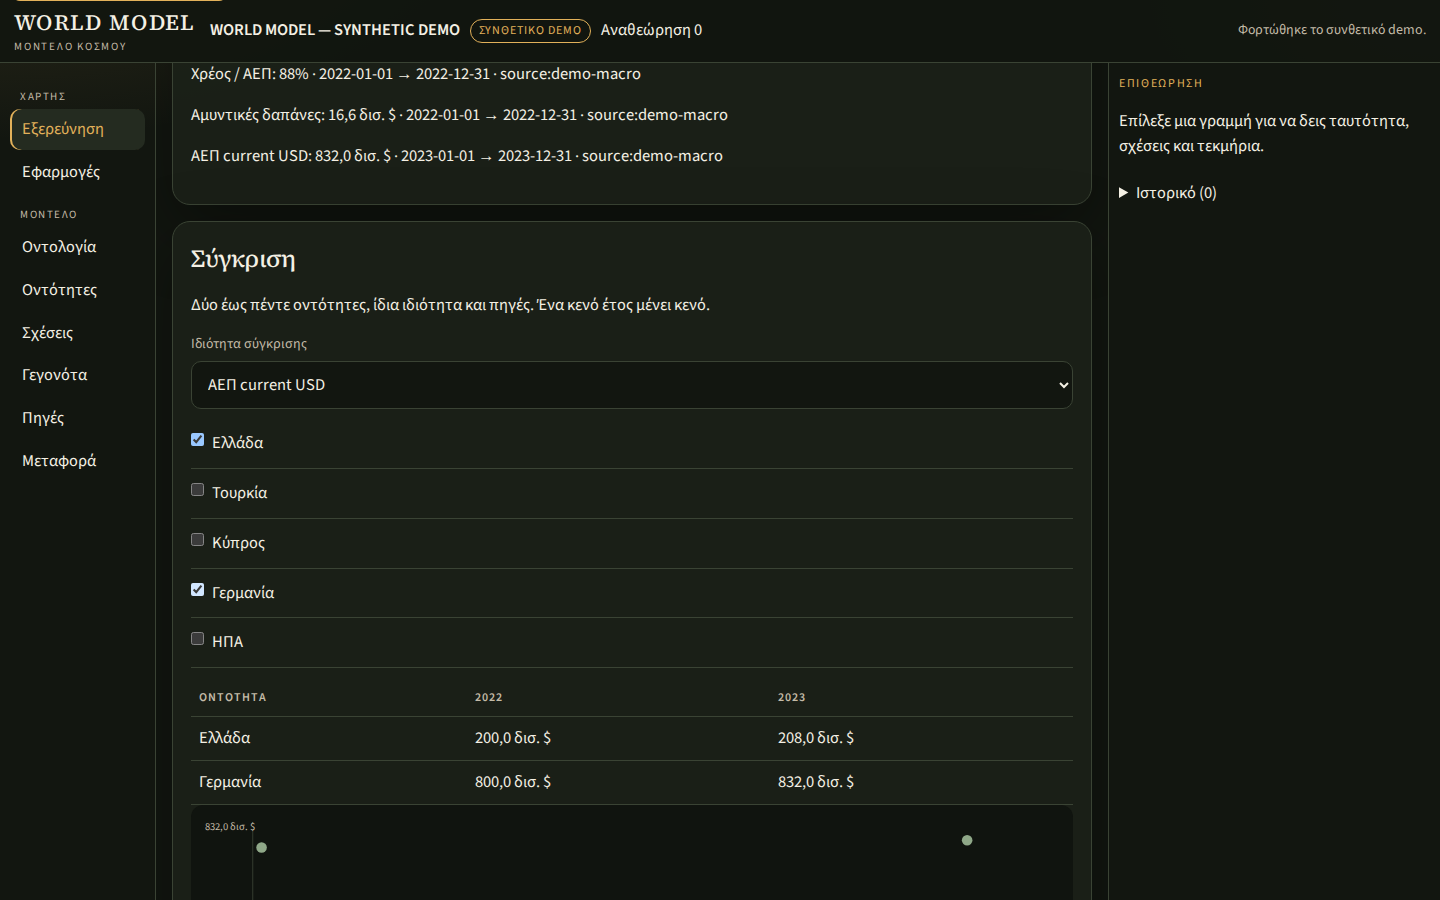
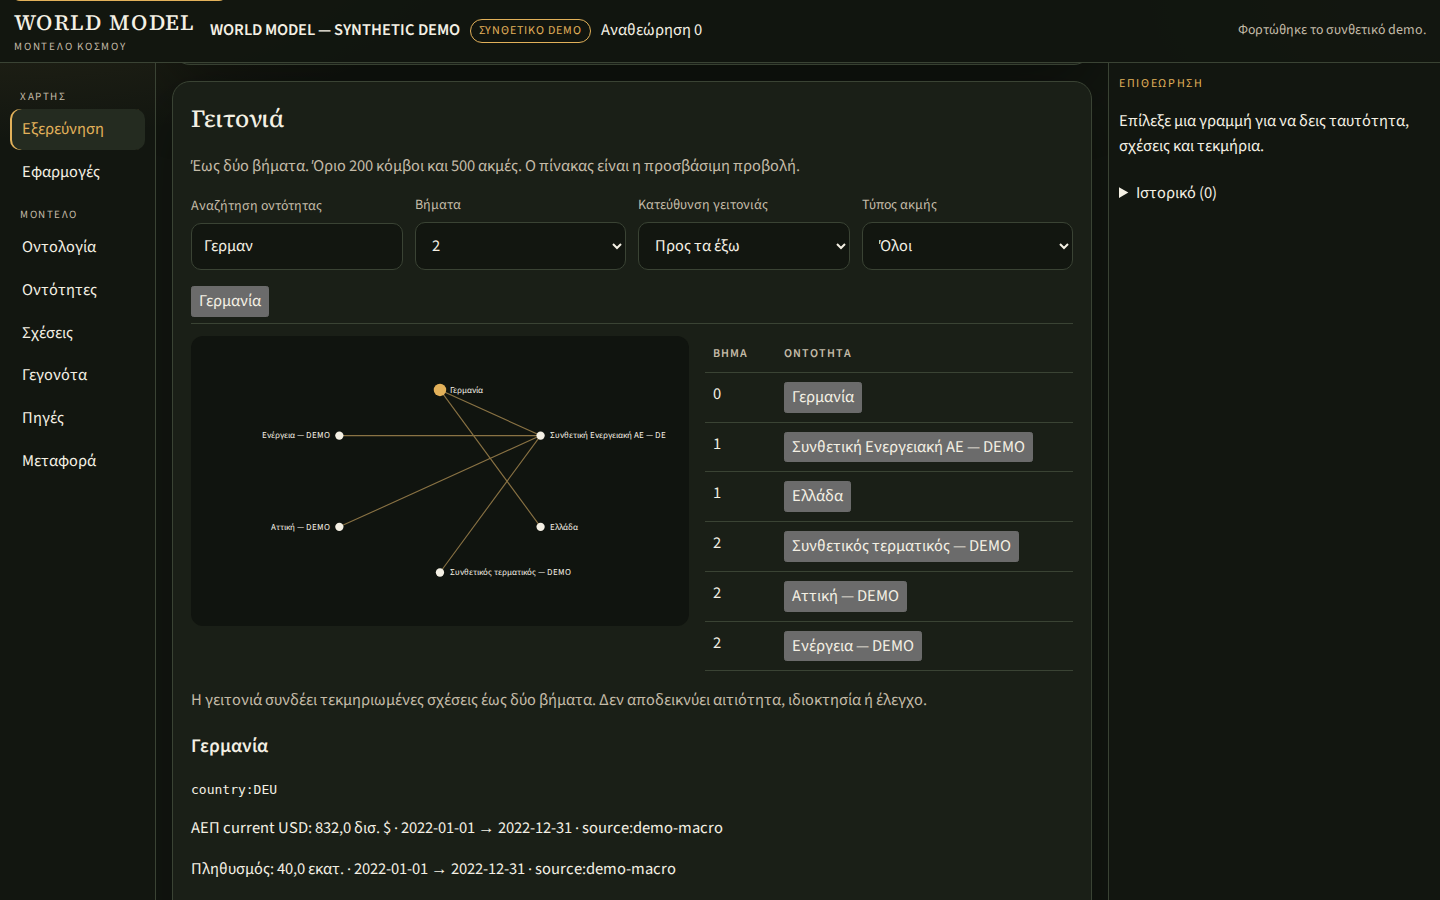
Show the neighborhood beside its table and label the comparison chart.
The graph was a small circle under a form, and the series chart was cut off. Labels now sit outside the nodes, and the chart draws axes, a legend, and lines only between years that both have a value.

diff --git a/src/ui/explore.tsx b/src/ui/explore.tsx
@@ -178,9 +178,10 @@ function GraphPanel({ workspace, filters }: { workspace: Workspace; filters: Sha
         </label>
       </div>
       {matches.length > 0 ? <ul className="plain-list">{matches.map(match => <li key={match.id}><button type="button" onClick={() => { setStart(match.id); setSelected(match.id); }}>{match.label}</button></li>)}</ul> : null}
-      {result ? <GraphSketch nodes={result.nodes.map(node => node.id)} edges={result.edges} labelOf={(id) => entityLabel(workspace, id)} /> : null}
       {result ? (
-        <div className="table-wrap"><table data-testid="neighborhood-table">
+        <div className="graph-layout">
+          <GraphSketch nodes={result.nodes.map(node => node.id)} edges={result.edges} selectedId={selected} labelOf={(id) => entityLabel(workspace, id)} />
+          <div className="table-wrap"><table data-testid="neighborhood-table">
           <thead><tr><th>Βήμα</th><th>Οντότητα</th><th>Ακμές</th></tr></thead>
           <tbody>
             {result.nodes.map(node => (
@@ -192,6 +193,7 @@ function GraphPanel({ workspace, filters }: { workspace: Workspace; filters: Sha
             ))}
           </tbody>
         </table></div>
+        </div>
       ) : null}
       {result?.truncated ? <p>Η γειτονιά κόπηκε στο δηλωμένο όριο.</p> : null}
       {result ? <p className="muted">{result.note}</p> : null}
@@ -210,25 +212,32 @@ function GraphPanel({ workspace, filters }: { workspace: Workspace; filters: Sha
   );
 }
 
-function GraphSketch({ nodes, edges, labelOf }: { nodes: string[]; edges: { id: string; fromId: string; toId: string }[]; labelOf: (id: string) => string }) {
+function GraphSketch({ nodes, edges, selectedId, labelOf }: { nodes: string[]; edges: { id: string; fromId: string; toId: string }[]; selectedId: string; labelOf: (id: string) => string }) {
   const index = new Map(nodes.map((id, position) => [id, position]));
   const point = (position: number) => {
-    const angle = (Math.PI * 2 * position) / Math.max(nodes.length, 1);
-    return [160 + Math.cos(angle) * 110, 120 + Math.sin(angle) * 80];
+    const turn = nodes.length <= 1 ? -Math.PI / 2 : (Math.PI * 2 * position) / nodes.length - Math.PI / 2;
+    return [360 + Math.cos(turn) * 168, 210 + Math.sin(turn) * 132];
   };
   return (
-    <svg className="map" viewBox="0 0 320 240" role="img" aria-label="Γράφημα γειτονιάς" data-testid="graph-canvas">
+    <svg className="graph-canvas" viewBox="0 0 720 420" role="img" aria-label="Γράφημα γειτονιάς" data-testid="graph-canvas">
       {edges.map(edge => {
         const from = index.get(edge.fromId);
         const to = index.get(edge.toId);
         if (from === undefined || to === undefined) return null;
         const [x1, y1] = point(from);
         const [x2, y2] = point(to);
-        return <line key={edge.id} x1={x1} y1={y1} x2={x2} y2={y2} stroke="#e2b15a" strokeWidth="1.2" />;
+        return <line key={edge.id} x1={x1} y1={y1} x2={x2} y2={y2} stroke="#8a7344" strokeWidth="1.6" />;
       })}
       {nodes.map((id, position) => {
         const [x, y] = point(position);
-        return <g key={id}><circle cx={x} cy={y} r="7" fill="#f4f0e4" /><text x={x + 10} y={y + 4} fill="#f4f0e4" fontSize="10">{labelOf(id).slice(0, 18)}</text></g>;
+        const onLeft = x < 360;
+        const selected = id === selectedId;
+        return (
+          <g key={id}>
+            <circle cx={x} cy={y} r={selected ? 9 : 6} fill={selected ? '#e2b15a' : '#f4f0e4'} />
+            <text x={onLeft ? x - 14 : x + 14} y={y + 4} textAnchor={onLeft ? 'end' : 'start'} fill="#f4f0e4" fontSize="13">{labelOf(id).slice(0, 28)}</text>
+          </g>
+        );
       })}
     </svg>
   );
@@ -266,27 +275,58 @@ function ComparePanel({ workspace, filters }: { workspace: Workspace; filters: S
           </tbody>
         </table></div>
       ) : null}
-      {series ? <SeriesChart series={series} /> : null}
+      {series ? <SeriesChart series={series} labelOf={(id) => entityLabel(workspace, id)} /> : null}
     </section>
   );
 }
 
-function SeriesChart({ series }: { series: ReturnType<typeof timeSeries> }) {
+const SERIES_COLORS = ['#e2b15a', '#8fa888', '#d7c4a3', '#7f93a8', '#c4846c'];
+
+function SeriesChart({ series, labelOf }: { series: ReturnType<typeof timeSeries>; labelOf: (id: string) => string }) {
   const values = series.rows.flatMap(row => row.points.flatMap(point => point.value === null ? [] : [point.value]));
   const min = values.length > 0 ? Math.min(...values) : 0;
   const max = values.length > 0 ? Math.max(...values) : 1;
-  const xOf = (index: number) => 80 + index * (series.years.length > 1 ? 800 / (series.years.length - 1) : 0);
+  const xOf = (index: number) => 120 + index * (series.years.length > 1 ? 760 / (series.years.length - 1) : 0);
+  const yOf = (value: number) => 230 - ((value - min) / (max - min || 1)) * 160;
   return (
-    <svg className="map" viewBox="0 0 1000 260" role="img" aria-label="Σημεία σειράς χωρίς συμπλήρωση κενών">
-      <line x1="70" y1="200" x2="920" y2="200" stroke="#3a4334" />
-      <line x1="70" y1="30" x2="70" y2="200" stroke="#3a4334" />
-      <text x="16" y="28" fill="#c4bba8" fontSize="12">{formatMeasure(max, series.unit)}</text>
-      <text x="16" y="204" fill="#c4bba8" fontSize="12">{formatMeasure(min, series.unit)}</text>
-      {series.years.map((year, index) => <text key={year} x={xOf(index) - 16} y="224" fill="#c4bba8" fontSize="12">{year}</text>)}
-      {series.rows.map((row, rowIndex) => row.points.map((point, index) => point.value === null ? null : (
-        <circle key={`${row.entityId}-${point.year}`} cx={xOf(index)} cy={200 - ((point.value - min) / (max - min || 1)) * 160} r="6" fill={rowIndex === 0 ? '#e2b15a' : '#8fa888'} />
-      )))}
+    <div className="chart-scroll">
+    <svg className="series-chart" viewBox="0 0 1000 320" role="img" aria-label="Σημεία σειράς χωρίς συμπλήρωση κενών" data-testid="series-chart">
+      {[0, 0.5, 1].map(step => {
+        const y = 230 - step * 160;
+        const value = min + (max - min) * step;
+        return <g key={step}><line x1="110" y1={y} x2="900" y2={y} stroke="#3a4334" /><text x="102" y={y + 4} textAnchor="end" fill="#c4bba8" fontSize="13">{formatMeasure(value, series.unit)}</text></g>;
+      })}
+      <line x1="110" y1="40" x2="110" y2="230" stroke="#c4bba8" />
+      <line x1="110" y1="230" x2="900" y2="230" stroke="#c4bba8" />
+      {series.years.map((year, index) => <text key={year} x={xOf(index)} y="254" textAnchor="middle" fill="#f4f0e4" fontSize="14">{year}</text>)}
+      {series.rows.map((row, rowIndex) => {
+        const color = SERIES_COLORS[rowIndex % SERIES_COLORS.length] ?? '#e2b15a';
+        const segments: string[] = [];
+        let current = '';
+        for (const [index, point] of row.points.entries()) {
+          if (point.value === null) {
+            if (current) segments.push(current);
+            current = '';
+            continue;
+          }
+          current += `${current ? ' L' : 'M'}${xOf(index)} ${yOf(point.value)}`;
+        }
+        if (current) segments.push(current);
+        return (
+          <g key={row.entityId}>
+            {segments.map(d => <path key={d} d={d} fill="none" stroke={color} strokeWidth="2" />)}
+            {row.points.map((point, index) => point.value === null ? null : <circle key={`${row.entityId}-${point.year}`} cx={xOf(index)} cy={yOf(point.value)} r="7" fill={color} />)}
+          </g>
+        );
+      })}
+      {series.rows.map((row, rowIndex) => (
+        <g key={row.entityId}>
+          <rect x={120 + rowIndex * 170} y="276" width="14" height="14" fill={SERIES_COLORS[rowIndex % SERIES_COLORS.length]} />
+          <text x={140 + rowIndex * 170} y="288" fill="#f4f0e4" fontSize="14">{labelOf(row.entityId)}</text>
+        </g>
+      ))}
     </svg>
+    </div>
   );
 }
 

diff --git a/tests/browser/graph.spec.ts b/tests/browser/graph.spec.ts
@@ -9,6 +9,8 @@ test('search opens a two-step neighborhood and a series keeps gaps empty', async
   await expect(page.getByTestId('neighborhood-table')).toContainText('Συνθετικός τερματικός — DEMO');
   await page.getByLabel('Βήματα').selectOption('1');
   await expect(page.getByTestId('neighborhood-table')).not.toContainText('Συνθετικός τερματικός — DEMO');
+  await page.getByLabel('Βήματα').selectOption('2');
+  await expect(page.getByTestId('neighborhood-table')).toContainText('Συνθετικός τερματικός — DEMO');
   await expect(page.getByTestId('graph-inspector')).toContainText('country:DEU');
 
   await page.getByRole('checkbox', { name: 'Ελλάδα' }).check();
@@ -16,7 +18,11 @@ test('search opens a two-step neighborhood and a series keeps gaps empty', async
   await expect(page.getByTestId('series-table')).toContainText('2022');
   await expect(page.getByTestId('series-table')).toContainText('2023');
   await page.setViewportSize({ width: 1440, height: 900 });
-  await page.screenshot({ path: 'docs/evidence/n4-graph-1440.png', fullPage: true });
+  await page.getByTestId('graph-canvas').scrollIntoViewIfNeeded();
+  await page.screenshot({ path: 'docs/evidence/n4-graph-1440.png' });
+  await page.getByTestId('series-chart').scrollIntoViewIfNeeded();
+  await page.screenshot({ path: 'docs/evidence/n4-series-1440.png' });
   await page.setViewportSize({ width: 390, height: 844 });
-  await page.screenshot({ path: 'docs/evidence/n4-graph-390.png', fullPage: true });
+  await page.getByTestId('series-chart').scrollIntoViewIfNeeded();
+  await page.screenshot({ path: 'docs/evidence/n4-graph-390.png' });
 });

diff --git a/src/ui/style.css b/src/ui/style.css
@@ -155,6 +155,10 @@ input[type="checkbox"] { width: auto; flex: 0 0 auto; margin: 2px 0 0; }
 .map .valued { fill: #e2b15a; }
 .map .selected { stroke: #f4efe4; stroke-width: 1.8; }
 @keyframes atlas-in { from { opacity: 0.35; } to { opacity: 1; } }
+.graph-layout { display: grid; grid-template-columns: minmax(280px, 1.15fr) minmax(260px, 0.85fr); gap: 16px; align-items: start; }
+.graph-canvas, .series-chart { width: 100%; height: auto; background: #10140f; border-radius: 12px; display: block; }
+.chart-scroll { overflow-x: auto; }
+.series-chart { min-width: 640px; }
 .module-tabs { display: flex; gap: 8px; flex-wrap: wrap; margin-bottom: 12px; }
 .module-tabs button { background: transparent; border: 1px solid var(--line); border-radius: 999px; padding: 8px 12px; }
 .module-tabs button[aria-selected="true"] { background: var(--brass); color: var(--brass-ink); border-color: var(--brass); }
@@ -196,4 +200,5 @@ tbody tr[aria-selected="true"] { background: rgba(226, 177, 90, 0.1); }
   .layer-btn { min-width: 0; }
   .map-hud.bottom { top: 76px; right: 8px; bottom: auto; left: auto; }
   .nav { flex-wrap: wrap; }
+  .graph-layout { grid-template-columns: 1fr; }
 }

diff --git a/PROGRESS.md b/PROGRESS.md
@@ -3,6 +3,16 @@
 Νεότερο entry πρώτο. Οι εντολές παρακάτω εκτελούνται από το project root.
 Τρέχον στάδιο: εμπειρία προϊόντος στο `cursor/product-experience-864c`. Η ουρά N0–N7 μένει κλειστή στο `cursor/overnight-depth-864c`. Η υπόθεση Β μένει μερική.
 
+## 2026-11-09 — PX-3 — Γράφημα και διάγραμμα
+
+Agent/session: Cursor Grok 4.7 | Status: done με όρια | Branch: cursor/product-experience-864c
+
+Η γειτονιά είναι κύκλος με ετικέτες έξω από τους κόμβους, δίπλα στον πίνακα. Ο επιλεγμένος κόμβος είναι ο μπρούτζινος. Το διάγραμμα έχει άξονες, έτη, υπόμνημα και γραμμή μόνο ανάμεσα σε διαδοχικά έτη με τιμή. Στο 390 το διάγραμμα έχει ελάχιστο πλάτος 640 και κάνει οριζόντια κύλιση, ώστε οι ετικέτες να μη γίνουν μικροσκοπικές. Το screenshot του τηλεφώνου δείχνει το 2022· το 2023 είναι μία κύλιση δεξιά.
+
+Επαλήθευση: `tsc -p tsconfig.json` pass. `npx playwright test tests/browser/graph.spec.ts` — 1/1. Τα screenshots είναι `docs/evidence/n4-graph-1440.png`, `n4-series-1440.png`, `n4-graph-390.png`.
+
+Επόμενο βήμα, αν σταματήσει η συνεδρία: PX-4. Δες ξανά ontology/entities/transfer στα 1440 και 390. Μην ξαναανοίξεις τα πέντε αεροδρόμια χωρίς παραπομπή και μην αλλάξεις ορατότητα ή κάνεις merge. Το PR είναι το #7, βάση `cursor/overnight-depth-864c`.
+
 ## 2026-11-09 — PX-2 — WDI για τις χώρες του χάρτη
 
 Agent/session: Cursor Grok 4.7 | Status: done | Branch: cursor/product-experience-864c

diff --git a/TASKS.md b/TASKS.md
@@ -8,8 +8,8 @@
 |---|---|---|---|---|
 | PX-1 | Shell χάρτη, format αριθμών, επιθεώρηση, viewport | done | Cursor Grok 4.7 / cursor/product-experience-864c | Header πάνω, checkbox στο label, ελληνικό compact, χάρτης αρχική οθόνη. Ο κόσμος μένει κενός στις χώρες χωρίς fact. |
 | PX-2 | WDI για όλες τις χώρες με γεωμετρία | done | Cursor Grok 4.7 / cursor/product-experience-864c | 164 χώρες με ΑΕΠ 2022. 10 πολύγωνα χωρίς τιμή μένουν κενά. CC BY 4.0. |
-| PX-3 | Graph δίπλα στον πίνακα και διάγραμμα με άξονες που διαβάζονται | in_progress | Cursor Grok 4.7 / cursor/product-experience-864c | PX-1. Το screenshot n4-graph δείχνει ακόμη φόρμα και κομμένο διάγραμμα. |
-| PX-4 | Κρίση screenshots 1440/390 και δεύτερο πέρασμα | todo | — | PX-2 και PX-3. Σύγκριση με τη διάταξη Sovereign / World Monitor, χωρίς αντιγραφή κώδικα. |
+| PX-3 | Graph δίπλα στον πίνακα και διάγραμμα με άξονες που διαβάζονται | done | Cursor Grok 4.7 / cursor/product-experience-864c | Κύκλος δίπλα στον πίνακα. Γραμμή μόνο σε διαδοχικά έτη με τιμή. Στο 390 το 2023 θέλει οριζόντια κύλιση. |
+| PX-4 | Κρίση screenshots 1440/390 και δεύτερο πέρασμα | in_progress | Cursor Grok 4.7 / cursor/product-experience-864c | Ο χάρτης και το graph κρίθηκαν. Μένουν ontology, entities και transfer στα δύο πλάτη. |
 
 ## Προηγούμενη ανάθεση: πολύωρη συνέχεια
 

diff --git a/docs/DECISIONS.md b/docs/DECISIONS.md
@@ -10,6 +10,8 @@
 
 Η κλίμακα του choropleth είναι λογαριθμική, πέντε κλάσεις. Το μητρώο επιπέδων έχει δικά μας ids `world` και `greece`, με καταστάσεις ready / empty / unsupported. Δεν αντιγράφηκε κώδικας World Monitor ή Sovereign. Η προβολή γράφεται στο hash ως `layer`, `year`, `vx`, `vy`, `vk` με `replaceState`. Κλικ σε χώρα εστιάζει το πολύγωνο. Κλικ σε ελληνική περιφέρεια την επιλέγει χωρίς να βγάζει την υπόλοιπη χώρα από το κάδρο. Δεν τοποθετούνται εταιρείες στο κέντρο χώρας.
 
+Η γειτονιά ζωγραφίζεται ως κύκλος δίπλα στον πίνακα. Το διάγραμμα σύγκρισης ενώνει μόνο διαδοχικά έτη με τιμή. Κενό έτος κόβει τη γραμμή. Τα ονόματα και οι άξονες είναι στο ίδιο σχήμα, όχι σε ξεχωριστό υπόμνημα εκτός SVG.
+
 ## 2026-11-09 — Ορατότητα repository και Node
 
 Το GitHub repository `statego2/World-Model` είναι public. Το σχέδιο πρότεινε private αντίγραφο. Σε αυτή την εργασία η ορατότητα δεν αλλάζει· την αποφασίζει ο Dimitris. Δεν αποθηκεύονται tokens στα αρχεία του project.
